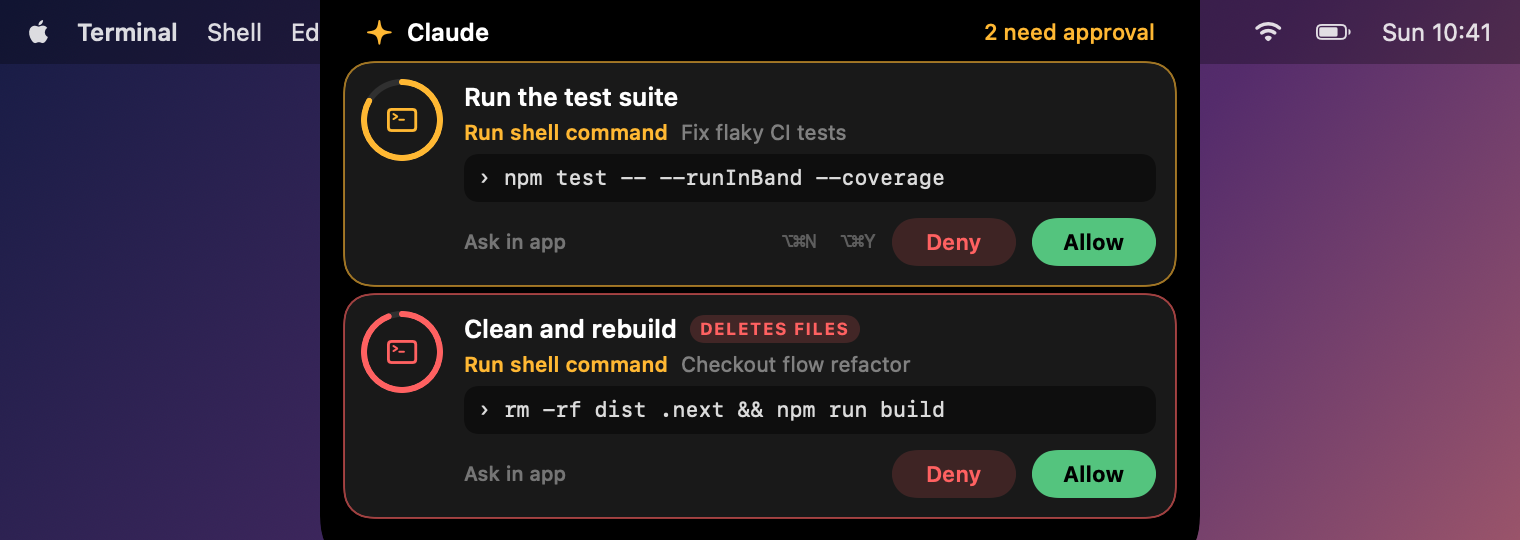
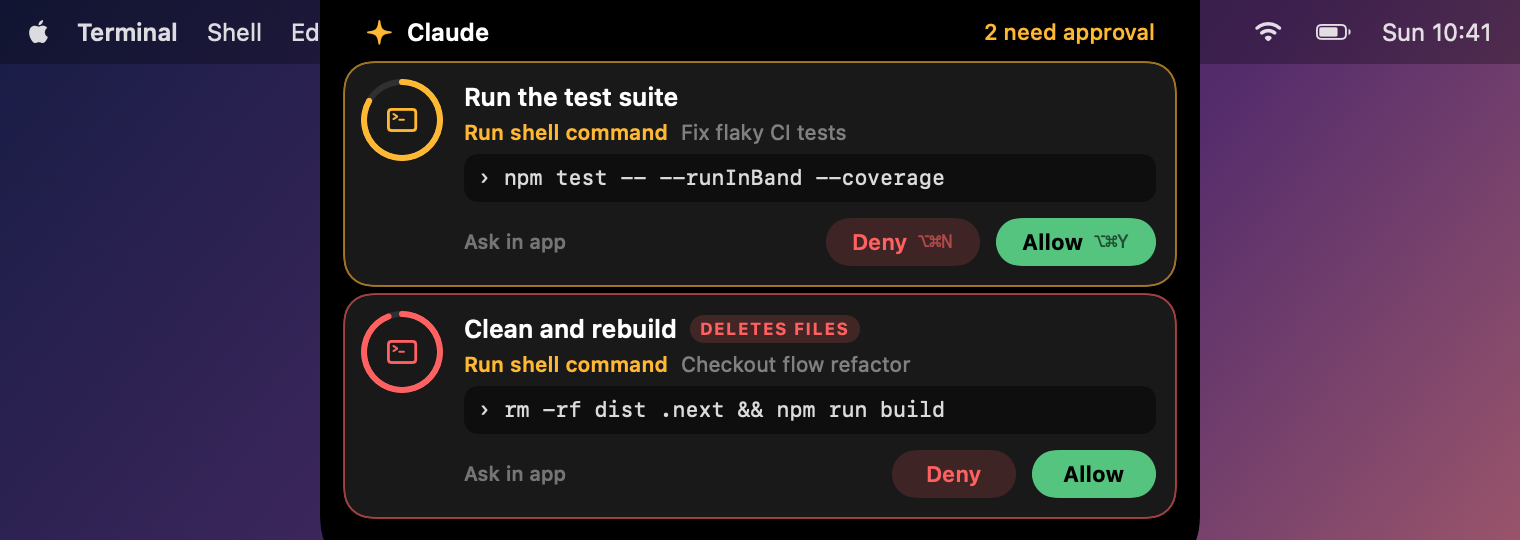
Show the keyboard shortcuts on the Deny and Allow buttons

Changed region(s): [[0.5257, 0.3852, 0.7421, 0.5037]]

diff --git a/Sources/ClaudeNotch/Views/RequestListView.swift b/Sources/ClaudeNotch/Views/RequestListView.swift
@@ -149,6 +149,19 @@ struct RequestRow: View {
         .help("Time left before this goes back to Claude's own prompt")
     }
 
+    /// The button's word, with its keyboard shortcut beside it on the card those keys answer.
+    private func buttonLabel(_ title: String, shortcut: String, weight: Font.Weight, tint: Color) -> some View {
+        HStack(spacing: 5) {
+            Text(title).font(.system(size: 11, weight: weight))
+            if showsShortcutHint {
+                Text(shortcut).font(.system(size: 9.5, weight: .medium, design: .monospaced)).opacity(0.6)
+            }
+        }
+        .foregroundStyle(tint)
+        .padding(.horizontal, 13)
+        .frame(minWidth: 62)
+    }
+
     private var actions: some View {
         HStack(spacing: 8) {
             Button { model.answer(request, .deferToApp) } label: {
@@ -156,26 +169,16 @@ struct RequestRow: View {
             }
             .buttonStyle(.plain)
             Spacer(minLength: 0)
-            if showsShortcutHint {
-                Text("⌥⌘N  ⌥⌘Y")
-                    .font(.system(size: 9.5, design: .monospaced))
-                    .foregroundStyle(.white.opacity(0.3))
-                    .help("Keyboard: ⌥⌘N denies, ⌥⌘Y allows")
-            }
             Button { model.answer(request, .deny) } label: {
-                Text("Deny")
-                    .font(.system(size: 11, weight: .semibold))
-                    .foregroundStyle(Palette.coral)
-                    .frame(width: 62, height: 24)
+                buttonLabel("Deny", shortcut: "⌥⌘N", weight: .semibold, tint: Palette.coral)
+                    .frame(height: 24)
                     .background(Capsule().fill(Palette.coral.opacity(hoveringDeny ? 0.3 : 0.16)))
             }
             .buttonStyle(.plain)
             .onHover { hoveringDeny = $0 }
             Button { model.answer(request, .allow) } label: {
-                Text("Allow")
-                    .font(.system(size: 11, weight: .bold))
-                    .foregroundStyle(.black)
-                    .frame(width: 62, height: 24)
+                buttonLabel("Allow", shortcut: "⌥⌘Y", weight: .bold, tint: .black)
+                    .frame(height: 24)
                     .background(Capsule().fill(Palette.mint.opacity(hoveringAllow ? 1 : 0.88)))
             }
             .buttonStyle(.plain)
